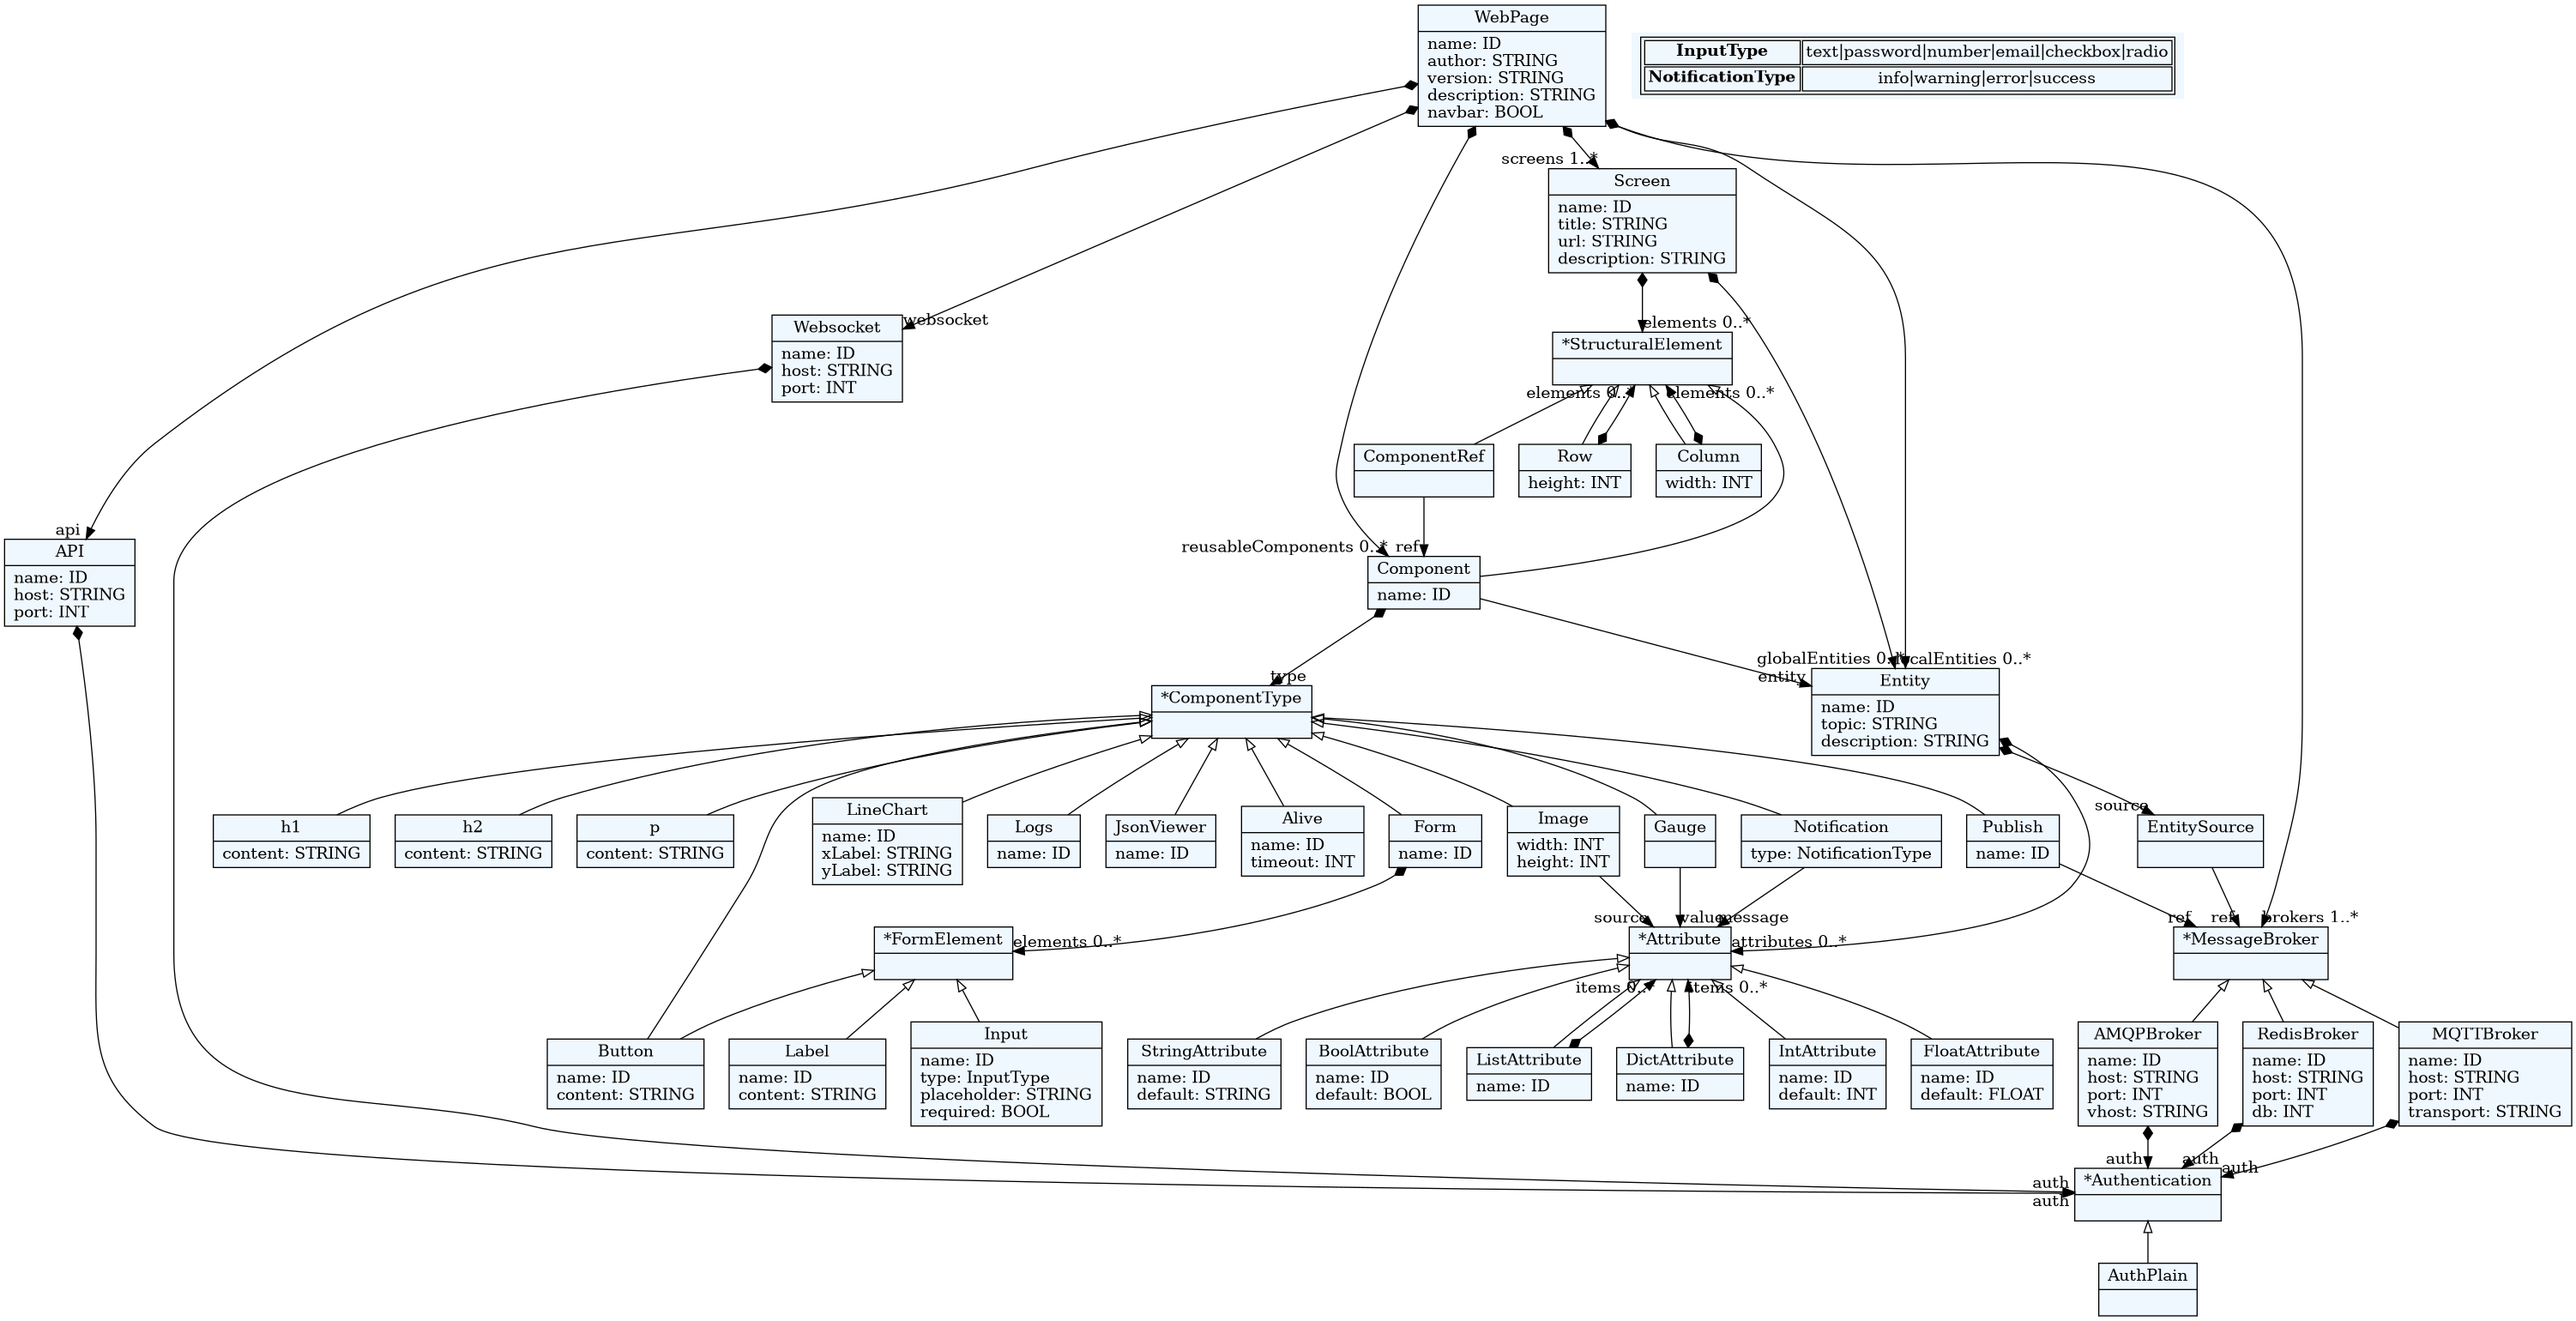
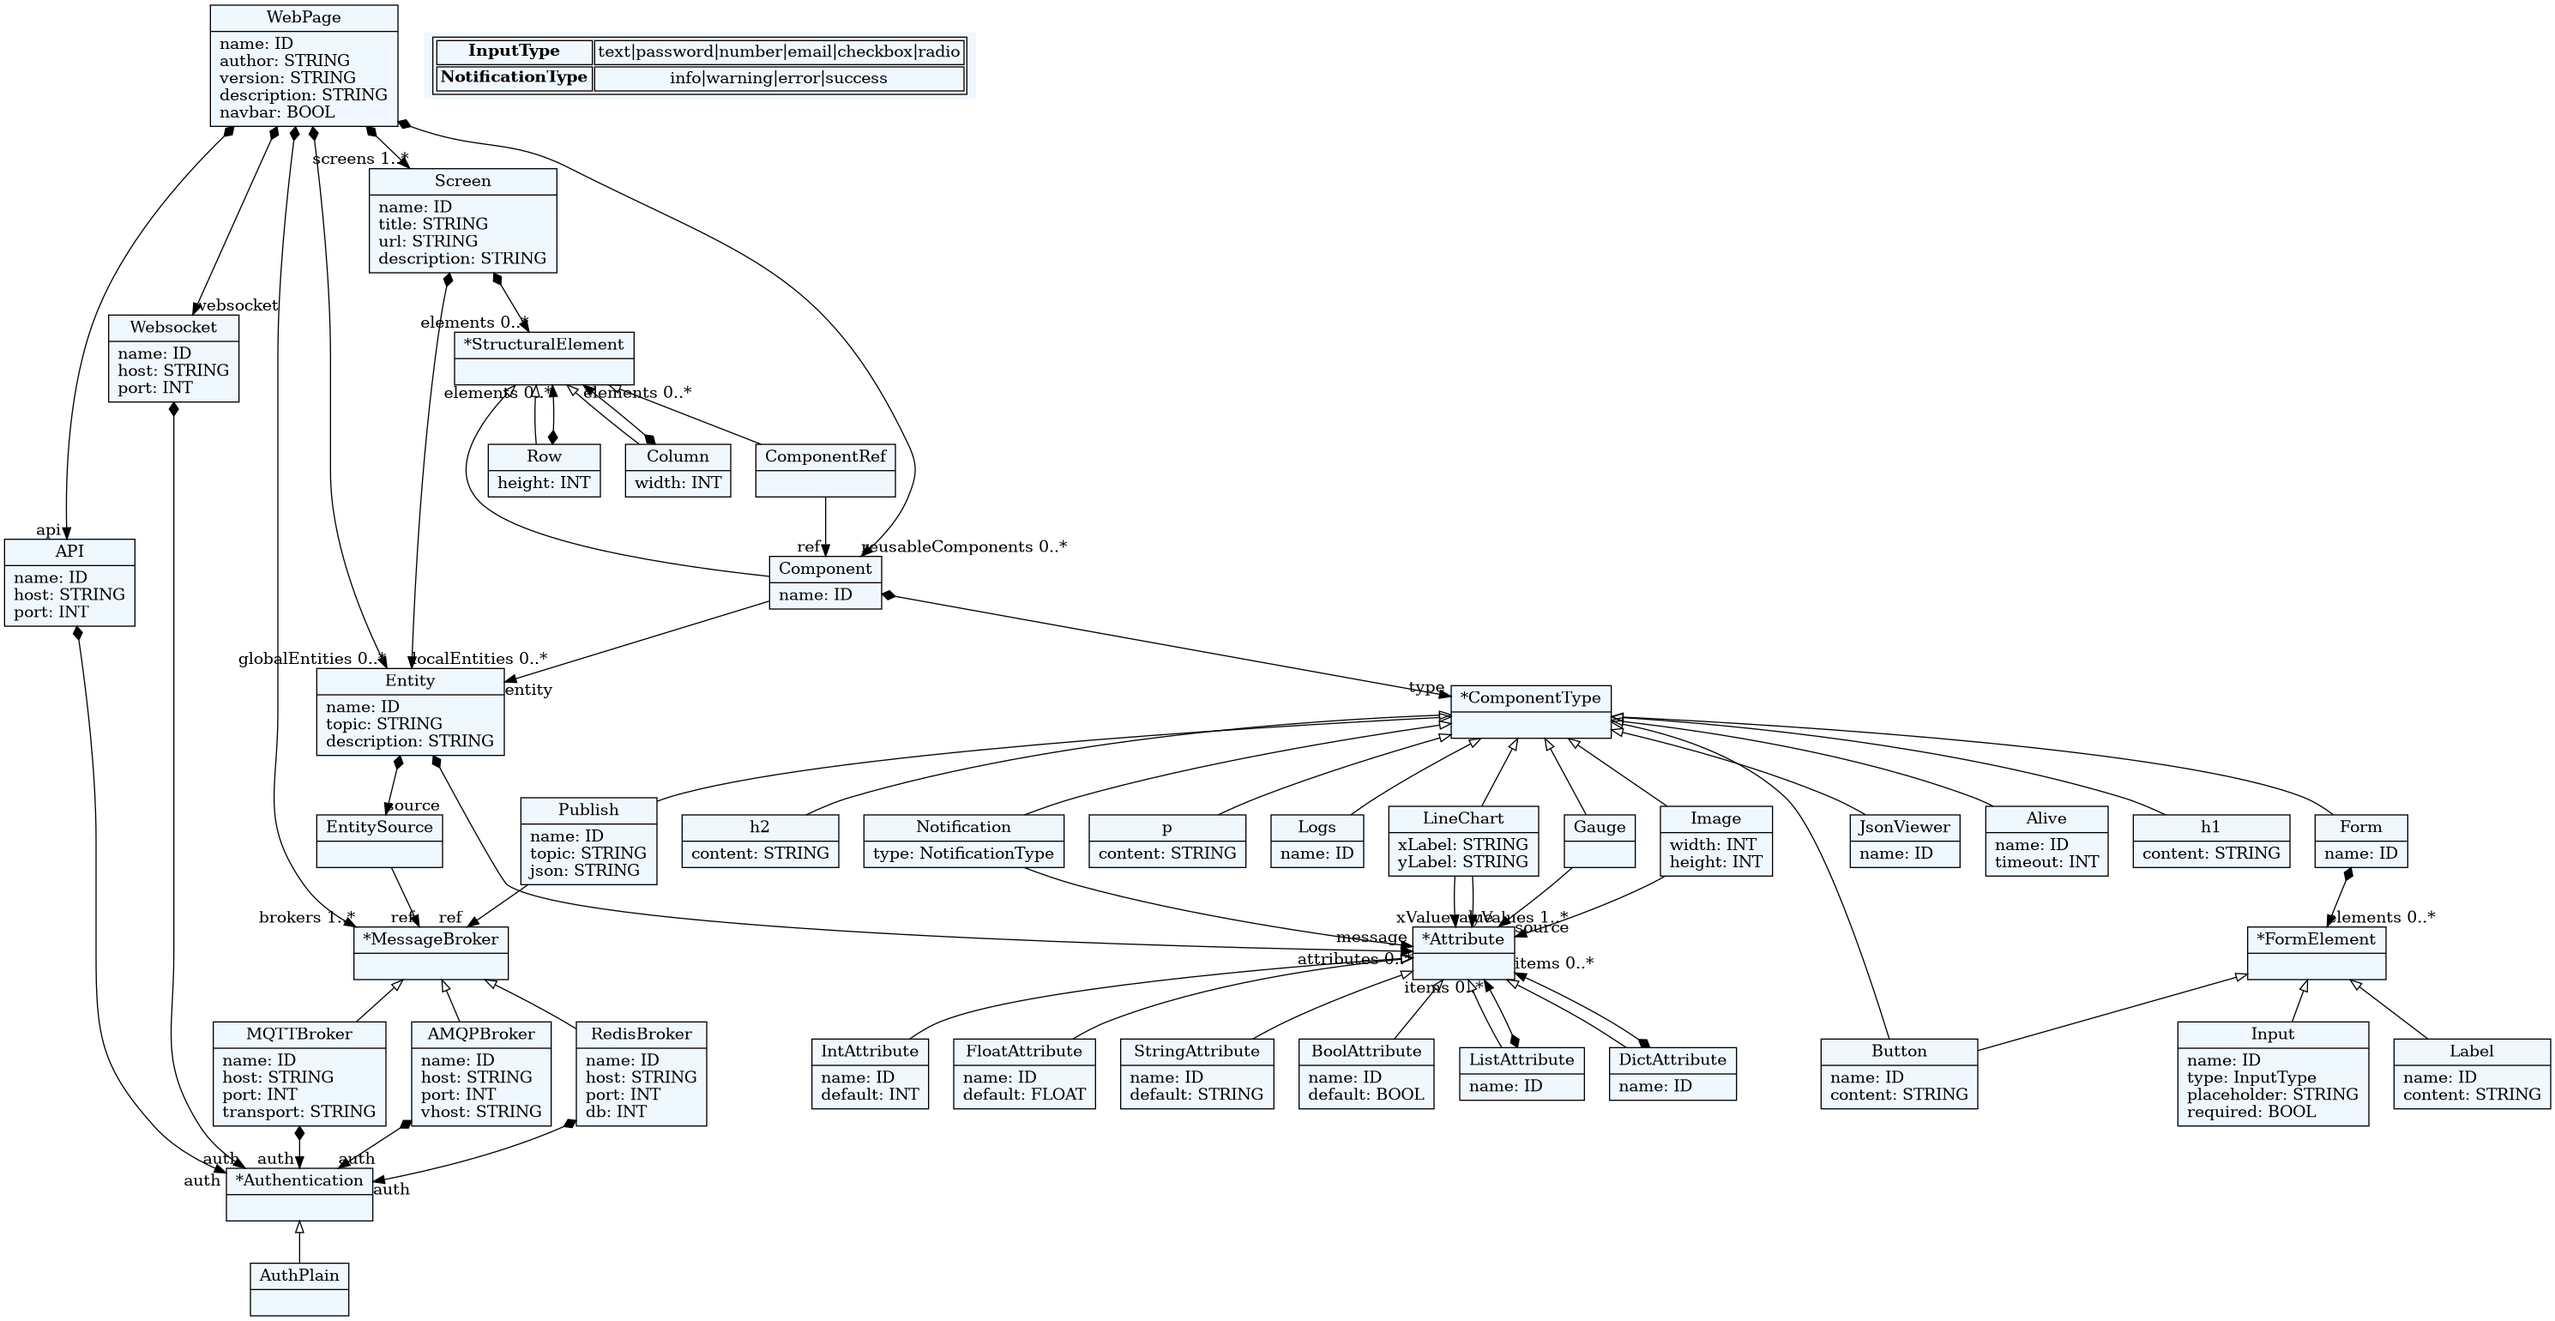
Added more custom classes

diff --git a/web_dsl/lib/component.py b/web_dsl/lib/component.py
@@ -134,3 +134,11 @@ class LineChart(ComponentType):
                 resolve_reference(item, ref_attr="yValues")
         else:
             resolve_reference(self, ref_attr="yValues")
+
+
+class Publish(ComponentType):
+    def __init__(self, parent=None, name=None, broker=None, topic=None, json=None):
+        super().__init__(parent, name)
+        self.broker = broker
+        self.topic = topic
+        self.json = json
